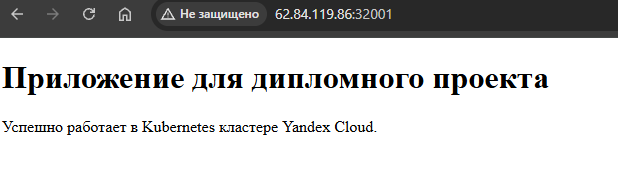
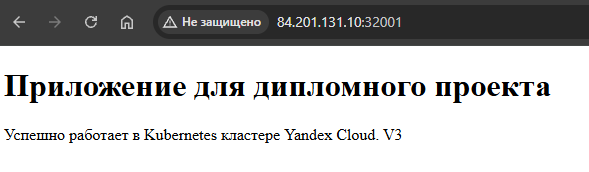
change readme

diff --git a/README.md b/README.md
@@ -160,7 +160,7 @@ grafana:
 ```
 helm upgrade prometheus prometheus-community/kube-prometheus-stack -n monitoring -f values.yml
 ```
-http://62.84.119.86:32008/
+http://84.201.131.10:32008/
 
 ![screen](./src/grafana.png)
 
